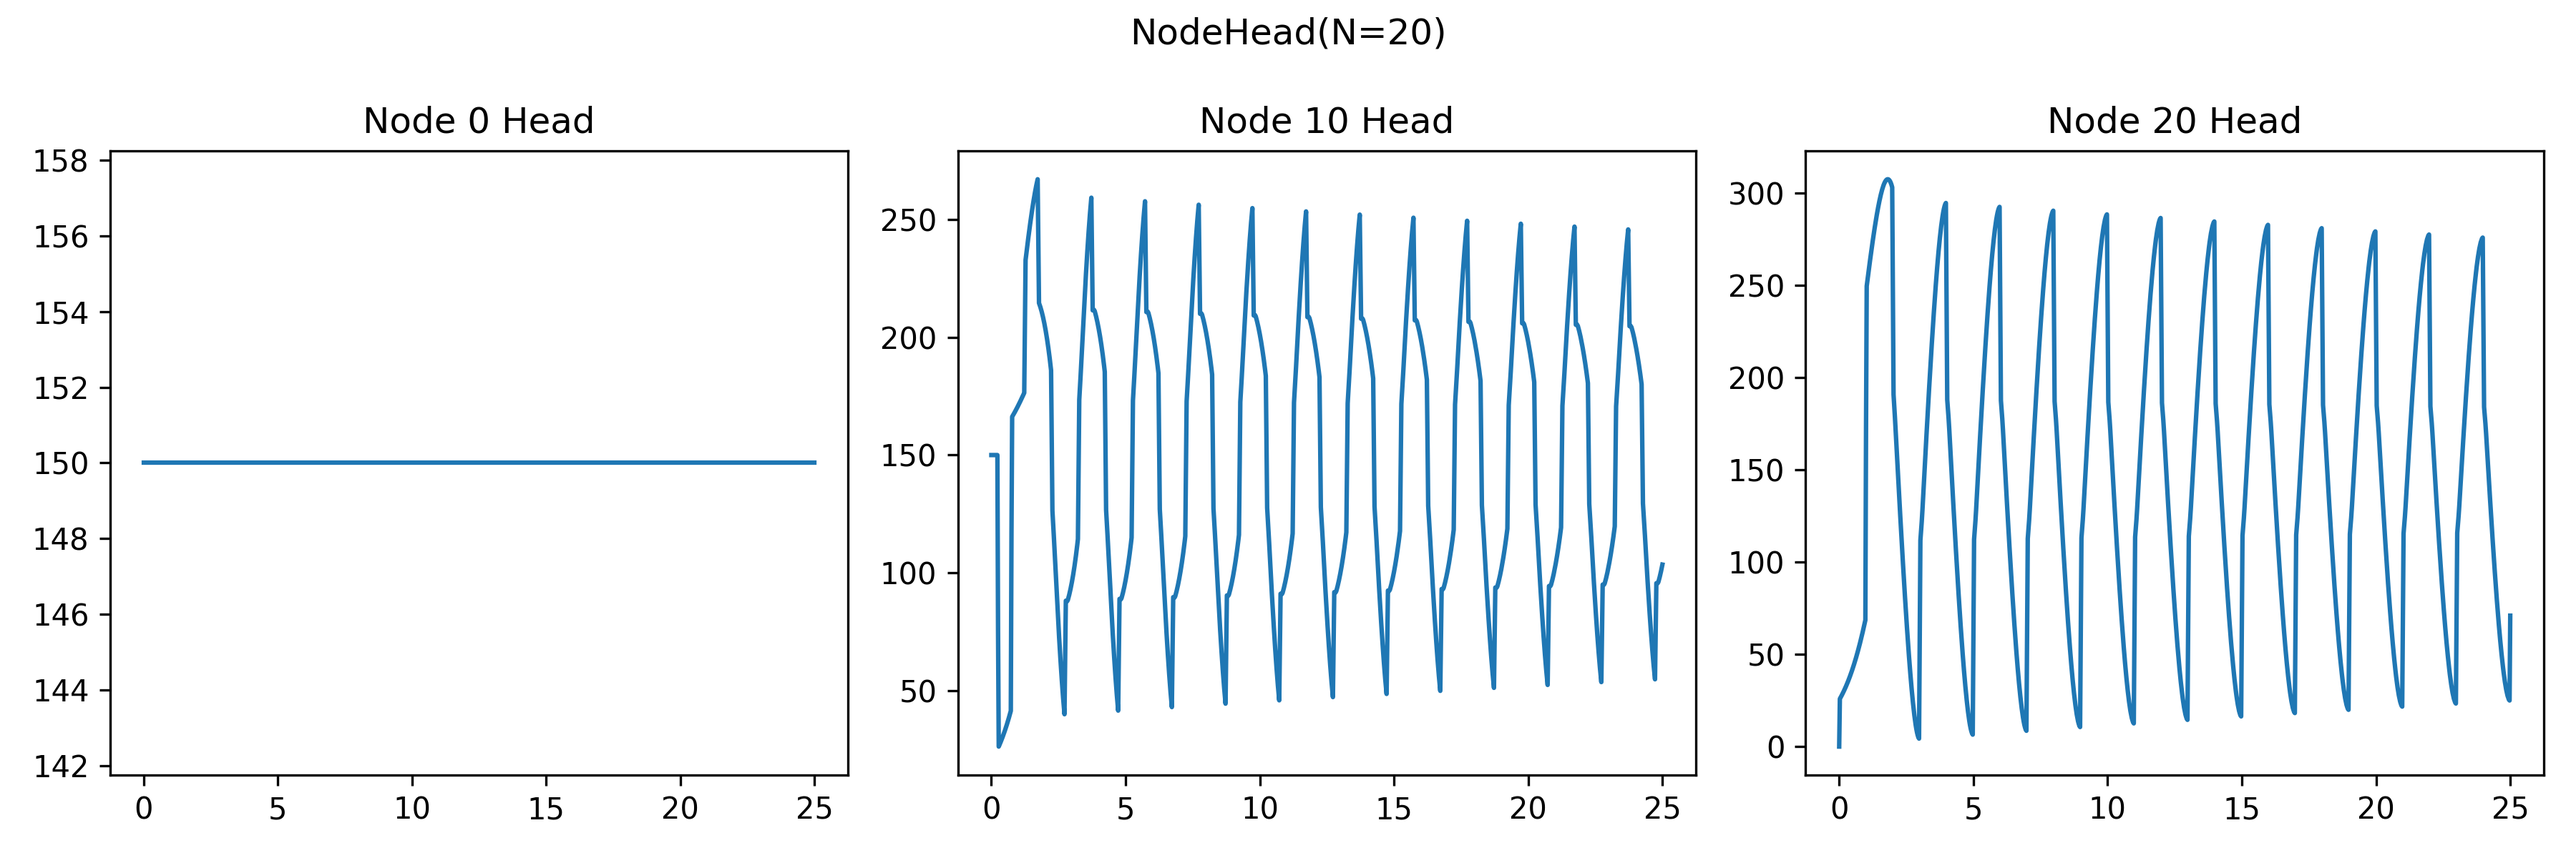
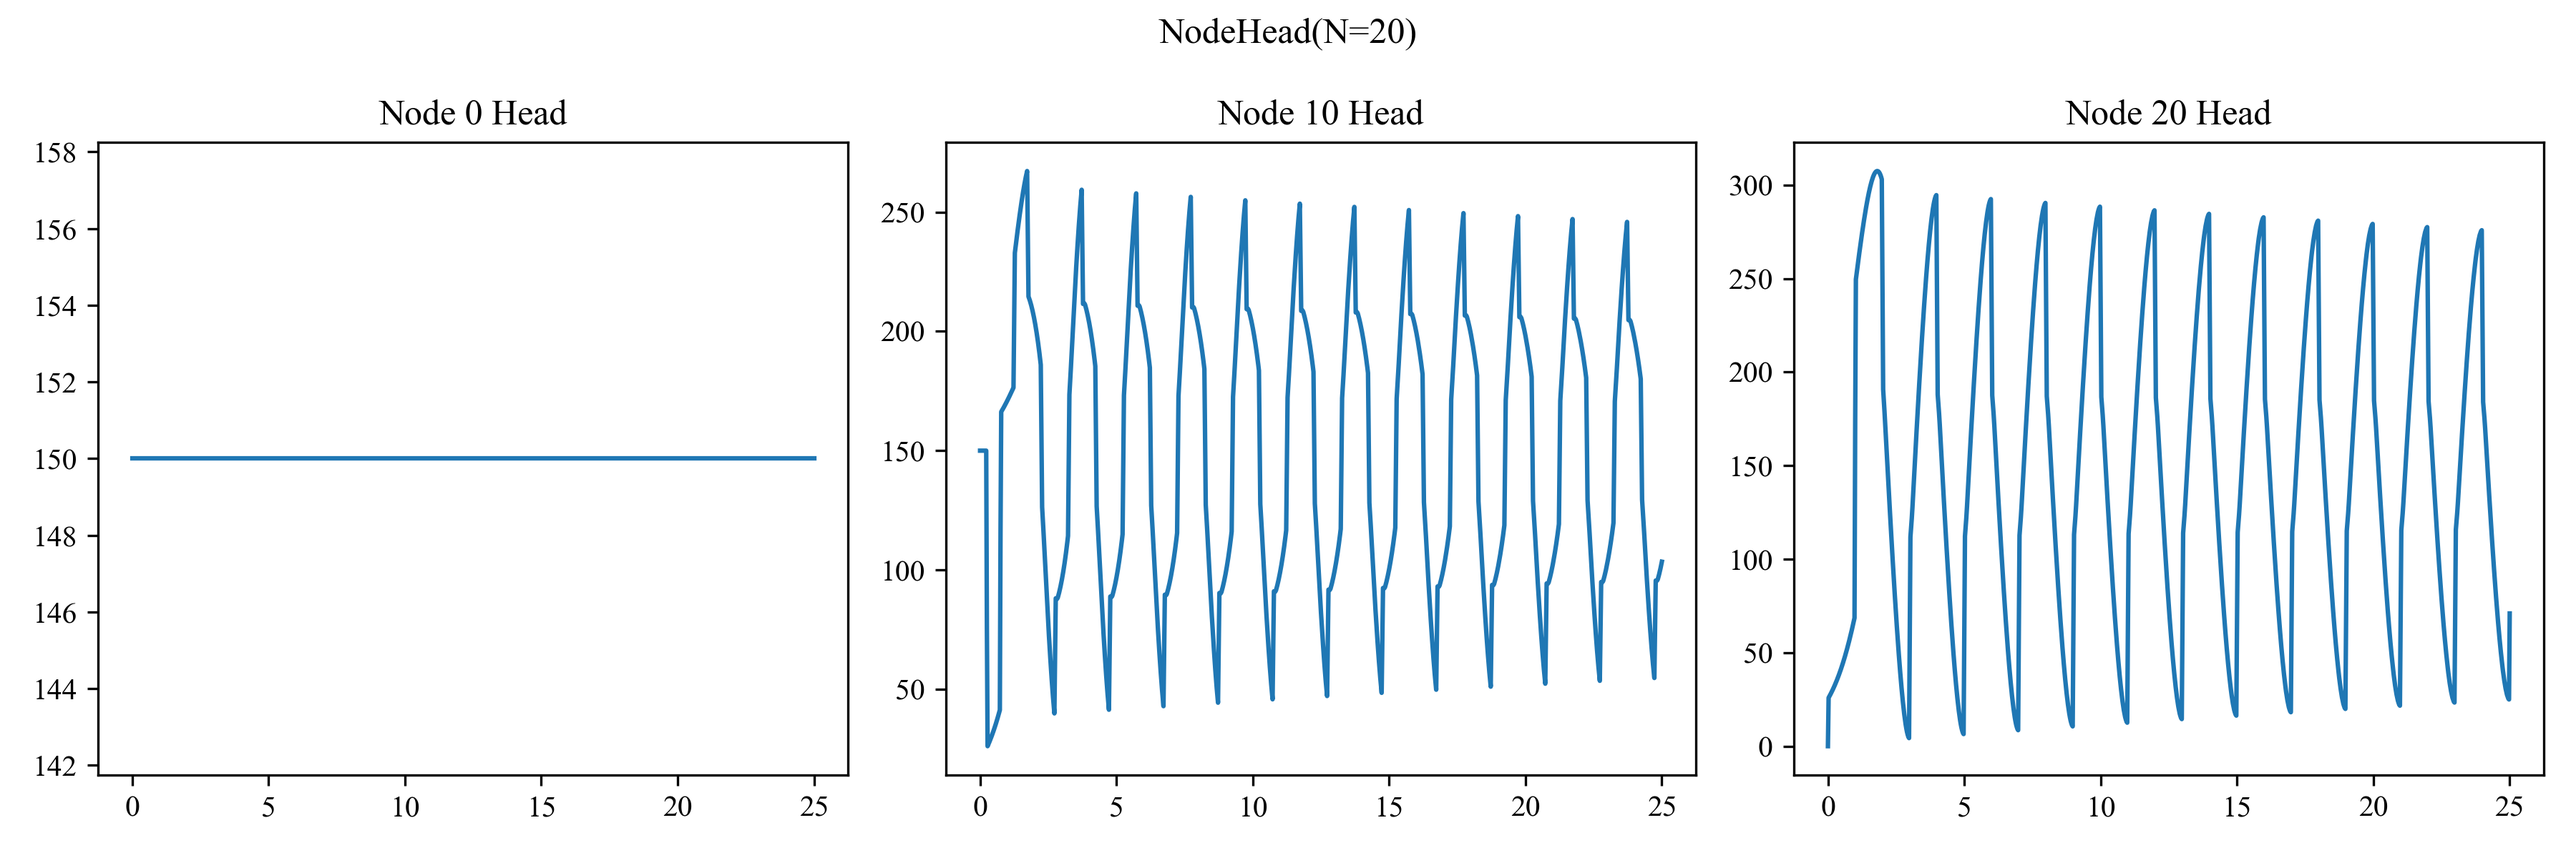
font

diff --git a/自主研究探索课程（1）/作业/Question2/Question2.py b/自主研究探索课程（1）/作业/Question2/Question2.py
@@ -14,7 +14,7 @@ E_m = 1.5
 Q_0 = k*np.sqrt(2*g*H_R)
 # 阀门全开时的流量
 
-N = 5
+N = 20
 # 管道分段
 
 # 初始化Q和H
@@ -60,6 +60,8 @@ for i in range(1,N_t+1):
 
 # 画出流量Q随时间变化
 fig, ax = plt.subplots(1,3)
+plt.rcParams['font.family'] = 'Times New Roman'
+
 # 将图窗设置为3英寸*3英寸
 fig.set_size_inches(12,4)
 fig.suptitle('NodeTraffic(N='+str(N)+')')
